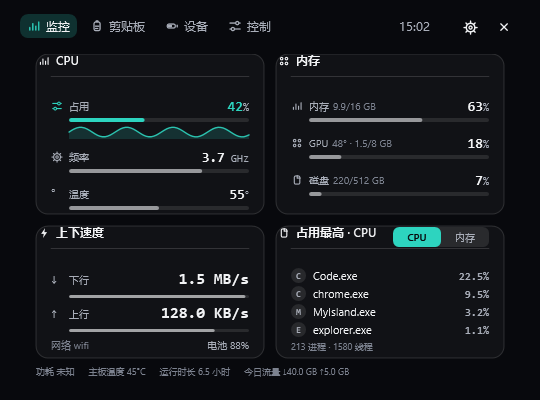
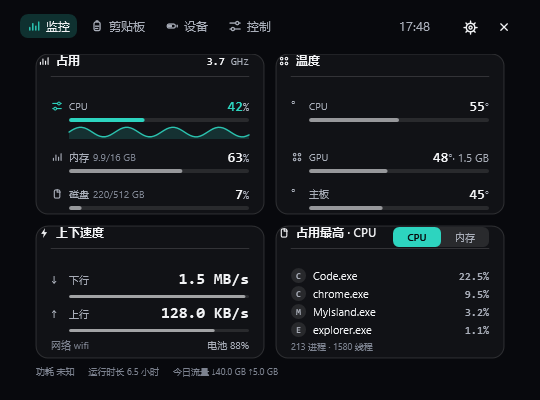
feat(monitor): macOS 端监控页改从共享规格取卡片/行 + 分组门禁（与 Windows 同一套判定）

diff --git a/src/Island.Avalonia/IslandCanvas.cs b/src/Island.Avalonia/IslandCanvas.cs
@@ -1695,7 +1695,7 @@ public sealed class IslandCanvas : Control
             dc.DrawText(t, new Point(cx + 33, cy0 + 12));
             dc.DrawLine(RenderKit.PenOf(pal.Hairline, 1, 0.9),
                 new Point(cx + 15, cy0 + 36), new Point(cx + cardW - 15, cy0 + 36));
-            return cy0 + 44;
+            return cy0 + MonitorLayoutSpec.CardContentTop;
         }
 
         // 曲线用的暂存数组（避免每帧分配）
@@ -1742,29 +1742,29 @@ public sealed class IslandCanvas : Control
         string Pct(Reading<double> r, double v) => r.HasValue ? $"{Math.Round(v)}%" : "--";
 
         // ① 占用：CPU / 内存 / 磁盘，各用资源色 + 历史曲线（对齐 BrimDeck）
-        double cy = Card(x1, y1, topH, "占用", Glyph.Cpu, ResColor(Res.Cpu, pal));
+        double cy = Card(x1, y1, topH, MonitorPageLayoutSpec.TitleOf("usage"), Glyph.Cpu, ResColor(Res.Cpu, pal));
         if (s is not null && s.GpuUsage > 0)
         {
             var gx = RenderKit.Text($"GPU {Math.Round(s.GpuUsage)}%", 10, ResColor(Res.Gpu, pal), true);
             dc.DrawText(gx, new Point(x1 + cardW - 15 - gx.WidthIncludingTrailingWhitespace, y1 + 14));
         }
         // 行高 44：进度条下方留 16px 给历史曲线（否则曲线会压到下一行的标签上）
-        Row(x1, cy,             Glyph.Cpu,  ResColor(Res.Cpu, pal),  "CPU",  Pct(stt.Cpu, s?.CpuUsage ?? 0),           (s?.CpuUsage ?? 0) / 100,  null, HistoryBuffer.Kind.Cpu);
-        Row(x1, cy + rowH,      Glyph.Mem,  ResColor(Res.Mem, pal),  "内存", Pct(stt.Memory, s?.MemoryUsagePercent ?? 0), (s?.MemoryUsagePercent ?? 0) / 100, null, HistoryBuffer.Kind.Mem);
-        Row(x1, cy + rowH * 2,  Glyph.Disk, ResColor(Res.Disk, pal), "磁盘", Pct(stt.Disk, s?.DiskUsagePercent ?? 0),   (s?.DiskUsagePercent ?? 0) / 100, null, HistoryBuffer.Kind.DiskRead, 8 * 1024 * 1024);
+        Row(x1, cy,             Glyph.Cpu,  ResColor(Res.Cpu, pal),  MonitorPageLayoutSpec.LabelOf("usage", "cpu-usage"),  Pct(stt.Cpu, s?.CpuUsage ?? 0),           (s?.CpuUsage ?? 0) / 100,  null, HistoryBuffer.Kind.Cpu);
+        Row(x1, cy + rowH,      Glyph.Mem,  ResColor(Res.Mem, pal),  MonitorPageLayoutSpec.LabelOf("usage", "memory"), Pct(stt.Memory, s?.MemoryUsagePercent ?? 0), (s?.MemoryUsagePercent ?? 0) / 100, null, HistoryBuffer.Kind.Mem);
+        Row(x1, cy + rowH * 2,  Glyph.Disk, ResColor(Res.Disk, pal), MonitorPageLayoutSpec.LabelOf("usage", "disk"), Pct(stt.Disk, s?.DiskUsagePercent ?? 0),   (s?.DiskUsagePercent ?? 0) / 100, null, HistoryBuffer.Kind.DiskRead, 8 * 1024 * 1024);
 
         // ② 温度：CPU / GPU / SSD，条长按 0-110°C 映射
         // 温度用语义色：正常走强调色、偏高走警告色、过高走红色（规范：语义色要精确而非喊叫）
-        cy = Card(x2, y1, topH, "温度", Glyph.Thermo, ResColor(Res.Cpu, pal));
+        cy = Card(x2, y1, topH, MonitorPageLayoutSpec.TitleOf("temp"), Glyph.Thermo, ResColor(Res.Cpu, pal));
         string Deg(double? v) => v is { } x && x > 0 ? $"{Math.Round(x)}°" : "--";
         // 返回 null=正常（用中性强调），非 null=超阈值（用警告色）
         string? TempWarn(double? v) => v is { } t ? (t >= 90 ? "过热" : t >= 70 ? "偏高" : null) : null;
-        Row(x2, cy,             Glyph.Thermo, ResColor(Res.Cpu, pal),  "CPU", Deg(s?.CpuTemp), (s?.CpuTemp ?? 0) / 110, TempWarn(s?.CpuTemp));
-        Row(x2, cy + rowH,      Glyph.Gpu,    ResColor(Res.Gpu, pal),  "GPU", Deg(s?.GpuTemp), (s?.GpuTemp ?? 0) / 110, TempWarn(s?.GpuTemp));
-        Row(x2, cy + rowH * 2,  Glyph.Ssd,    ResColor(Res.Disk, pal), "SSD", Deg(s?.SsdTemp), (s?.SsdTemp ?? 0) / 110, TempWarn(s?.SsdTemp));
+        Row(x2, cy,             Glyph.Thermo, ResColor(Res.Cpu, pal),  MonitorPageLayoutSpec.LabelOf("temp", "cpu-temp"), Deg(s?.CpuTemp), (s?.CpuTemp ?? 0) / 110, TempWarn(s?.CpuTemp));
+        Row(x2, cy + rowH,      Glyph.Gpu,    ResColor(Res.Gpu, pal),  MonitorPageLayoutSpec.LabelOf("temp", "gpu-temp"), Deg(s?.GpuTemp), (s?.GpuTemp ?? 0) / 110, TempWarn(s?.GpuTemp));
+        Row(x2, cy + rowH * 2,  Glyph.Ssd,    ResColor(Res.Disk, pal), MonitorPageLayoutSpec.LabelOf("temp", "storage-temp"), Deg(s?.SsdTemp), (s?.SsdTemp ?? 0) / 110, TempWarn(s?.SsdTemp));
 
         // ③ 上下速度：图标 + 数值 + 流量条（2 MB/s 为满格）
-        cy = Card(x1, y2, botH, "上下速度", Glyph.Down, pal.Accent);
+        cy = Card(x1, y2, botH, MonitorPageLayoutSpec.TitleOf("speed"), Glyph.Down, pal.Accent);
         void Speed(double yy, Glyph g, Color c, string label, double v, HistoryBuffer.Kind? curve = null)
         {
             DrawIcon(dc, g, x1 + 15, yy + 11, c);
@@ -1787,8 +1787,8 @@ public sealed class IslandCanvas : Control
                 if (n > 1) RenderKit.Sparkline(dc, new Rect(bx, yy + 33, bw, 14), _curveBuf, n, c);
             }
         }
-        Speed(cy,      Glyph.Down, DownC, "下行", s?.DownloadSpeed ?? 0, HistoryBuffer.Kind.Down);
-        Speed(cy + speedRowH, Glyph.Up,   UpC,   "上行", s?.UploadSpeed ?? 0, HistoryBuffer.Kind.Up);
+        Speed(cy,      Glyph.Down, DownC, MonitorPageLayoutSpec.LabelOf("speed", "down"), s?.DownloadSpeed ?? 0, HistoryBuffer.Kind.Down);
+        Speed(cy + speedRowH, Glyph.Up,   UpC,   MonitorPageLayoutSpec.LabelOf("speed", "up"), s?.UploadSpeed ?? 0, HistoryBuffer.Kind.Up);
         // 卡底信息位：网络类型 + 电池（应用榜占了右下角，电池信息挪到这里）
         var link = RenderKit.Text($"网络 {s?.LinkType ?? "--"}", 10, pal.TextTertiary);
         dc.DrawText(link, new Point(x1 + 15, y2 + botH - 18));
@@ -1801,7 +1801,7 @@ public sealed class IslandCanvas : Control
 
         // ④ 应用榜（右下）：真实应用图标 + 名称 + 数值，右上角「CPU / 内存」切换排序依据。
         //    对齐 BrimDeck 监控页右区。电池信息挪到速度卡底部（那里本来就有"网络"这类信息位）。
-        cy = Card(x2, y2, botH, ProcessListByMemory ? "占用最高 · 内存" : "占用最高 · CPU", Glyph.Ping, pal.Accent);
+        cy = Card(x2, y2, botH, MonitorPageLayoutSpec.TitleOf("topproc") + " · " + (ProcessListByMemory ? "内存" : "CPU"), Glyph.Ping, pal.Accent);
 
         // 右上角：CPU / 内存 分段切换
         {

diff --git a/tools/avalonia-probe/AvaloniaVisualCore.cs b/tools/avalonia-probe/AvaloniaVisualCore.cs
@@ -359,6 +359,45 @@ public static class AvaloniaVisualCore
     /// 监控页的像素不变量（非全黑 / 有内容 / 四张卡片落在规格位置 / 卡片间留白 /
     /// 底部状态行存在且不压栅格 / 状态行左缘对齐）。
     /// </summary>
+    /// <summary>
+    /// 行带里有没有"有内容"的像素：先取该区域**最常见的颜色**当局部底色（卡片自身的底），
+    /// 再看有没有与它差得够远的像素（文字/图标/分隔线）。
+    /// 为什么不用固定底色：卡底色与页面底色不同，用固定色会把卡外那截也算成"内容"，断言恒真；
+    /// 为什么不用高亮阈值：卡底那行是三级色（偏暗），按高亮阈值会整行被判漏 —— 而它正是要判的那行。
+    /// （与 Windows 端 tools\visual-probe 的同名判定同思路。）
+    /// </summary>
+    public static bool BandHasContent(ProbeImage img, LayoutRect rect, int minDelta = 25)
+    {
+        int x0 = (int)Math.Round(rect.X), y0 = (int)Math.Round(rect.Y);
+        int x1 = (int)Math.Round(rect.Right) - 1, y1 = (int)Math.Round(rect.Bottom) - 1;
+        x0 = Math.Max(0, x0); y0 = Math.Max(0, y0);
+        x1 = Math.Min(img.Width - 1, x1); y1 = Math.Min(img.Height - 1, y1);
+        if (x1 < x0 || y1 < y0) return false;
+
+        // 众数色 = 该区域的局部底色（文字只占极小比例）
+        var hist = new Dictionary<int, int>();
+        for (int y = y0; y <= y1; y++)
+            for (int x = x0; x <= x1; x++)
+            {
+                var (b, g, r) = img.At(x, y);
+                int key = (r << 16) | (g << 8) | b;
+                hist.TryGetValue(key, out int c);
+                hist[key] = c + 1;
+            }
+        int modal = 0, best = -1;
+        foreach (var kv in hist) if (kv.Value > best) { best = kv.Value; modal = kv.Key; }
+        int mr = (modal >> 16) & 0xFF, mg = (modal >> 8) & 0xFF, mb = modal & 0xFF;
+
+        for (int y = y0; y <= y1; y++)
+            for (int x = x0; x <= x1; x++)
+            {
+                var (b, g, r) = img.At(x, y);
+                int d = Math.Max(Math.Abs(r - mr), Math.Max(Math.Abs(g - mg), Math.Abs(b - mb)));
+                if (d >= minDelta) return true;
+            }
+        return false;
+    }
+
     public static void CheckMonitorPage(ProbeReport report, ProbeImage img, ProbePalette pal,
                                         double panelWidth, double panelHeight)
     {
@@ -384,6 +423,34 @@ public static class AvaloniaVisualCore
                 $"监控页：第 {i + 1} 张卡片画在规格位置（卡片底色占比 > 40%）",
                 fill > MinCardFillRatio,
                 $"规格 {cards[i]} ⇒ 卡片底色占比 {fill:P1}（下限 {MinCardFillRatio:P0}）"));
+        }
+
+        // ---- 分组门禁：按规格算出的每一行区域里必须有绘制（那个读数确实画在这一张卡里）----
+        // 这是「两端监控页卡片分组统一」的守门人：若某个读数被画到别的卡，本卡对应的行带就没有内容 ⇒ 红。
+        // 行带位置按 mac 的行几何算（卡片内容起始 + 行号 × 行高），参考色取**卡片底色**
+        // （否则整块卡底会被当成"内容"，断言就恒真了）。
+        var specCards = Island.Core.Capabilities.MonitorPageLayoutSpec.CardsFor(macOS: true);
+        for (int ci = 0; ci < specCards.Count && ci < cards.Length; ci++)
+        {
+            var specCard = specCards[ci];
+            var specRows = Island.Core.Capabilities.MonitorPageLayoutSpec.RowsFor(specCard, macOS: true);
+            double bandH = specCard.Key == "speed" ? MonitorLayoutSpec.SpeedRowH : MonitorLayoutSpec.RowH;
+            for (int ri = 0; ri < specRows.Count; ri++)
+            {
+                double bandY = cards[ci].Y + MonitorLayoutSpec.CardContentTop + ri * bandH;
+                var raw = new LayoutRect(cards[ci].X + 12, bandY, cards[ci].Width - 24, bandH - 2);
+                // 行带必须**夹在卡片矩形内**再量：卡外的页面底色与卡片底色不同，
+                // 不夹的话「卡外那截」会被当成"内容"，断言就恒真了（2026-11-26 实测踩过）。
+                double bx0 = Math.Max(raw.X, cards[ci].X), by0 = Math.Max(raw.Y, cards[ci].Y);
+                double bx1 = Math.Min(raw.Right, cards[ci].Right), by1 = Math.Min(raw.Bottom, cards[ci].Bottom);
+                var band = bx1 > bx0 && by1 > by0 ? new LayoutRect(bx0, by0, bx1 - bx0, by1 - by0) : raw;
+                bool rowHasContent = BandHasContent(img, band);
+                report.Checks.Add(new ProbeCheck(
+                    $"监控页：{specCard.Title} 卡的「{specRows[ri].Label}」行确实画在这张卡里（分组门禁）",
+                    rowHasContent,
+                    $"规格 {specCard.Key}/{specRows[ri].Key} ⇒ 行带 y∈[{band.Y:F0},{band.Bottom:F0}) ⇒" +
+                    $"该带有内容像素：{(rowHasContent ? "有" : "无")}"));
+            }
         }
 
         // 卡片之间的留白：列间与行间都必须是面板底色（不能有卡片底色漏出来）

diff --git a/tests/Island.Tests/MonitorPageLayoutMacTests.cs b/tests/Island.Tests/MonitorPageLayoutMacTests.cs
@@ -1,0 +1,104 @@
+using System;
+using System.IO;
+using System.Linq;
+using Island.Core.Capabilities;
+
+namespace Island.Tests;
+
+/// <summary>
+/// macOS 端监控页**卡片分组**的漂移检查（2026-11-26 task16：两端分组统一）。
+///
+/// 背景：此前两端的监控页是各写一套的（mac「占用 / 温度 / 上下速度 / 占用最高」vs
+/// Windows「CPU / 内存 / 上下速度 / 占用最高」），信息量接近但**看起来像两个产品**。
+/// 统一之后，分组的真相源是 `MonitorPageLayoutSpec`，两端都从它取卡片与行 ——
+/// 这里守住两件事：
+///   ① mac 端在规格里拿到的卡片/行**确实符合预期**（温度卡三行含存储、不含 Windows 专属的主板温度…）；
+///   ② mac 源码里绘制卡片的**顺序**与规格一致，且标题/行标签**取自规格**而不是硬编码。
+///
+/// 像素层面的"那个读数确实画在这一张卡里"由 mac 离屏渲染探针判定
+/// （tools/avalonia-probe/AvaloniaVisualCore.cs，与 Windows 端同一套思路）。
+/// </summary>
+internal static class MonitorPageLayoutMacTests
+{
+    /// <summary>找不到仓库根时静态校验整段跳过（不让测试因为路径找不到而红）。</summary>
+    private static string? RepoRoot { get; } = FindRepoRoot();
+
+    public static void Run(Action<string, bool> check)
+    {
+        var spec = MonitorPageLayoutSpec.CardsFor(macOS: true);
+
+        check("mac 分组：卡片四张且顺序为 占用 / 温度 / 上下速度 / 占用最高",
+            spec.Select(c => c.Key).SequenceEqual(new[] { "usage", "temp", "speed", "topproc" }));
+
+        check("mac 分组：占用卡三行（CPU / 内存 / 磁盘）",
+            RowKeys(spec, "usage").SequenceEqual(new[] { "cpu-usage", "memory", "disk" }));
+
+        check("mac 分组：温度卡三行（CPU / GPU / 存储），且**不含** Windows 专属的主板温度",
+            RowKeys(spec, "temp").SequenceEqual(new[] { "cpu-temp", "gpu-temp", "storage-temp" }));
+
+        check("mac 分组：上下速度卡两行（下行 / 上行）",
+            RowKeys(spec, "speed").SequenceEqual(new[] { "down", "up" }));
+
+        check("mac 分组：占用最高卡一行（进程榜）",
+            RowKeys(spec, "topproc").SequenceEqual(new[] { "top-processes" }));
+
+        check("mac 分组：每一行都有标签（两端一致的行标签取自同一份规格）",
+            spec.SelectMany(c => MonitorPageLayoutSpec.RowsFor(c, macOS: true))
+                .All(r => !string.IsNullOrWhiteSpace(r.Label) || r.Key == "top-processes"));
+
+        // ---- 静态：源码里绘制卡片的顺序 == 规格顺序；标题/行标签取自规格 ----
+        string? canvas = ReadSource("src", "Island.Avalonia", "IslandCanvas.cs");
+        if (canvas is null)
+        {
+            check("mac 分组：源码绘制顺序与规格一致（未定位到仓库根，已跳过）", true);
+            return;
+        }
+
+        var idx = spec
+            .Select(c => canvas.IndexOf($"MonitorPageLayoutSpec.TitleOf(\"{c.Key}\")", StringComparison.Ordinal))
+            .ToList();
+        bool orderOk = idx.All(i => i >= 0) && idx.Zip(idx.Skip(1)).All(p => p.First < p.Second);
+        check("mac 分组：源码绘制卡片的顺序与规格一致", orderOk);
+        Console.WriteLine("      规格顺序 " + string.Join(" / ", spec.Select(c => c.Key)) +
+                          "；源码里首次出现位置 " + string.Join(" / ", idx));
+
+        int titleUses = canvas.Split(new[] { "MonitorPageLayoutSpec.TitleOf(" }, StringSplitOptions.None).Length - 1;
+        int labelUses = canvas.Split(new[] { "MonitorPageLayoutSpec.LabelOf(" }, StringSplitOptions.None).Length - 1;
+        check("mac 分组：卡片标题与行标签都取自规格（不在代码里另写一份）",
+            titleUses >= 4 && labelUses >= 8);
+        Console.WriteLine($"      TitleOf 调用 {titleUses} 处（≥4）、LabelOf 调用 {labelUses} 处（≥8）");
+    }
+
+    private static string[] RowKeys(System.Collections.Generic.IReadOnlyList<MonitorCardSlot> spec, string cardKey)
+    {
+        var card = spec.FirstOrDefault(c => c.Key == cardKey);
+        return card is null
+            ? Array.Empty<string>()
+            : MonitorPageLayoutSpec.RowsFor(card, macOS: true).Select(r => r.Key).ToArray();
+    }
+
+    private static string? FindRepoRoot()
+    {
+        var dir = new DirectoryInfo(AppContext.BaseDirectory);
+        while (dir != null)
+        {
+            if (File.Exists(Path.Combine(dir.FullName, "Island.sln"))) return dir.FullName;
+            dir = dir.Parent;
+        }
+        return null;
+    }
+
+    private static string? ReadSource(params string[] parts)
+    {
+        if (RepoRoot is null) return null;
+        string path = Path.Combine(new[] { RepoRoot }.Concat(parts).ToArray());
+        try
+        {
+            return File.Exists(path) ? File.ReadAllText(path) : null;
+        }
+        catch
+        {
+            return null;
+        }
+    }
+}

diff --git a/src/Island.Core/Capabilities/MonitorPageLayoutSpec.cs b/src/Island.Core/Capabilities/MonitorPageLayoutSpec.cs
@@ -80,13 +80,21 @@ public static class MonitorPageLayoutSpec
 
         new("topproc", "占用最高", new MonitorRowSlot[]
         {
-            new("top-processes", "", "TopProcesses"),
+            new("top-processes", "进程榜", "TopProcesses"),
         }, Note: "标题随排序切换：占用最高 · CPU / 占用最高 · 内存；Windows 卡底另有「进程 · 线程」"),
     };
 
     /// <summary>某平台要画的卡片（顺序同 <see cref="Cards"/>）。</summary>
     public static IReadOnlyList<MonitorCardSlot> CardsFor(bool macOS) =>
         Cards.Where(c => macOS ? c.MacOS : c.Windows).ToList();
+
+    /// <summary>按键取卡片标题（找不到就回落到键本身，避免崩）。</summary>
+    public static string TitleOf(string cardKey) =>
+        Cards.FirstOrDefault(c => c.Key == cardKey)?.Title ?? cardKey;
+
+    /// <summary>按卡片键 + 行键取行标签（找不到就回落到行键本身）。</summary>
+    public static string LabelOf(string cardKey, string rowKey) =>
+        Cards.FirstOrDefault(c => c.Key == cardKey)?.Rows.FirstOrDefault(r => r.Key == rowKey)?.Label ?? rowKey;
 
     /// <summary>某张卡在某平台要画的行（顺序同 <see cref="MonitorCardSlot.Rows"/>）。</summary>
     public static IReadOnlyList<MonitorRowSlot> RowsFor(MonitorCardSlot card, bool macOS) =>

diff --git a/tests/Island.Tests/Program.cs b/tests/Island.Tests/Program.cs
@@ -53,6 +53,8 @@ try
     MonitorStatusLineTests.Run(Check); // 2026-11-26 E2：底部状态行 —— Windows 端字段位/渲染/「读不到⇒未知」
     MonitorStatusLineMacTests.Run(Check); // 2026-11-26 E2：底部状态行 —— macOS 端字段位与格式化规则
     GpuMemoryKindTests.Run(Check); // 2026-11-26 task15：GPU 显存读数口径（厂商/专用/共享/未知）与显示形状
+    MonitorPageLayoutTests.Run(Check); // 2026-11-26 task16：监控页卡片分组（两端共享规格 MonitorPageLayoutSpec）
+    MonitorPageLayoutMacTests.Run(Check); // 2026-11-26 task16：macOS 端监控页分组（规格过滤 + 源码绘制顺序）
     ThemeTokenTests.Run(Check); // 2026-11-26 task9：主题 token 语义清单漂移检查（两端同名 token 必须指同一语义角色）
     ThemeTokenUsageTests.Run(Check); // 2026-11-26 task14：跨端语义 token 用法漂移检查（同一个界面元素在两端必须用同一个语义 token）
     VisualRenderTests.Run(Check); // 2026-11-26 视觉回归探针：离屏渲染 + 像素不变量（防全黑 / 栅格几何 / 文本越界）

diff --git a/src/Island.Avalonia/MonitorLayoutSpec.cs b/src/Island.Avalonia/MonitorLayoutSpec.cs
@@ -73,6 +73,9 @@ public static class MonitorLayoutSpec
     /// <summary>卡片头高度（mac：42）。</summary>
     public const double CardHeadH = 42;
 
+    /// <summary>卡片内容起始 y 相对卡片顶边（mac：44 —— 标题 + 分隔线之下）。</summary>
+    public const double CardContentTop = 44;
+
     /// <summary>读数行行高（mac：44）。</summary>
     public const double RowH = 44;
 
